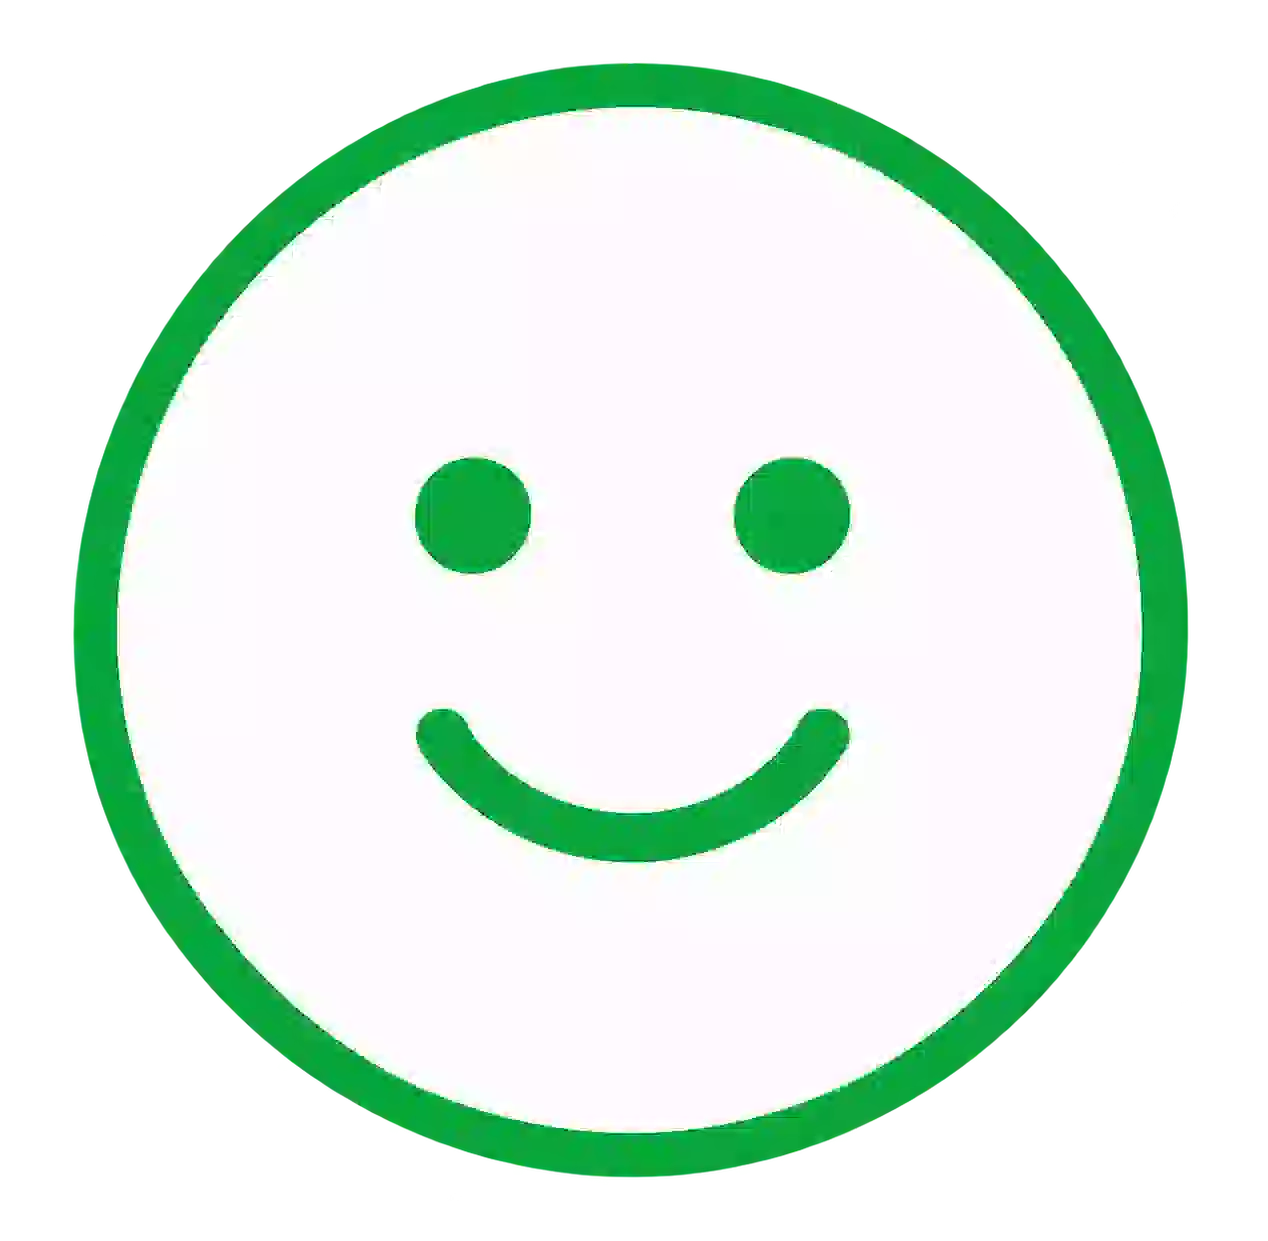
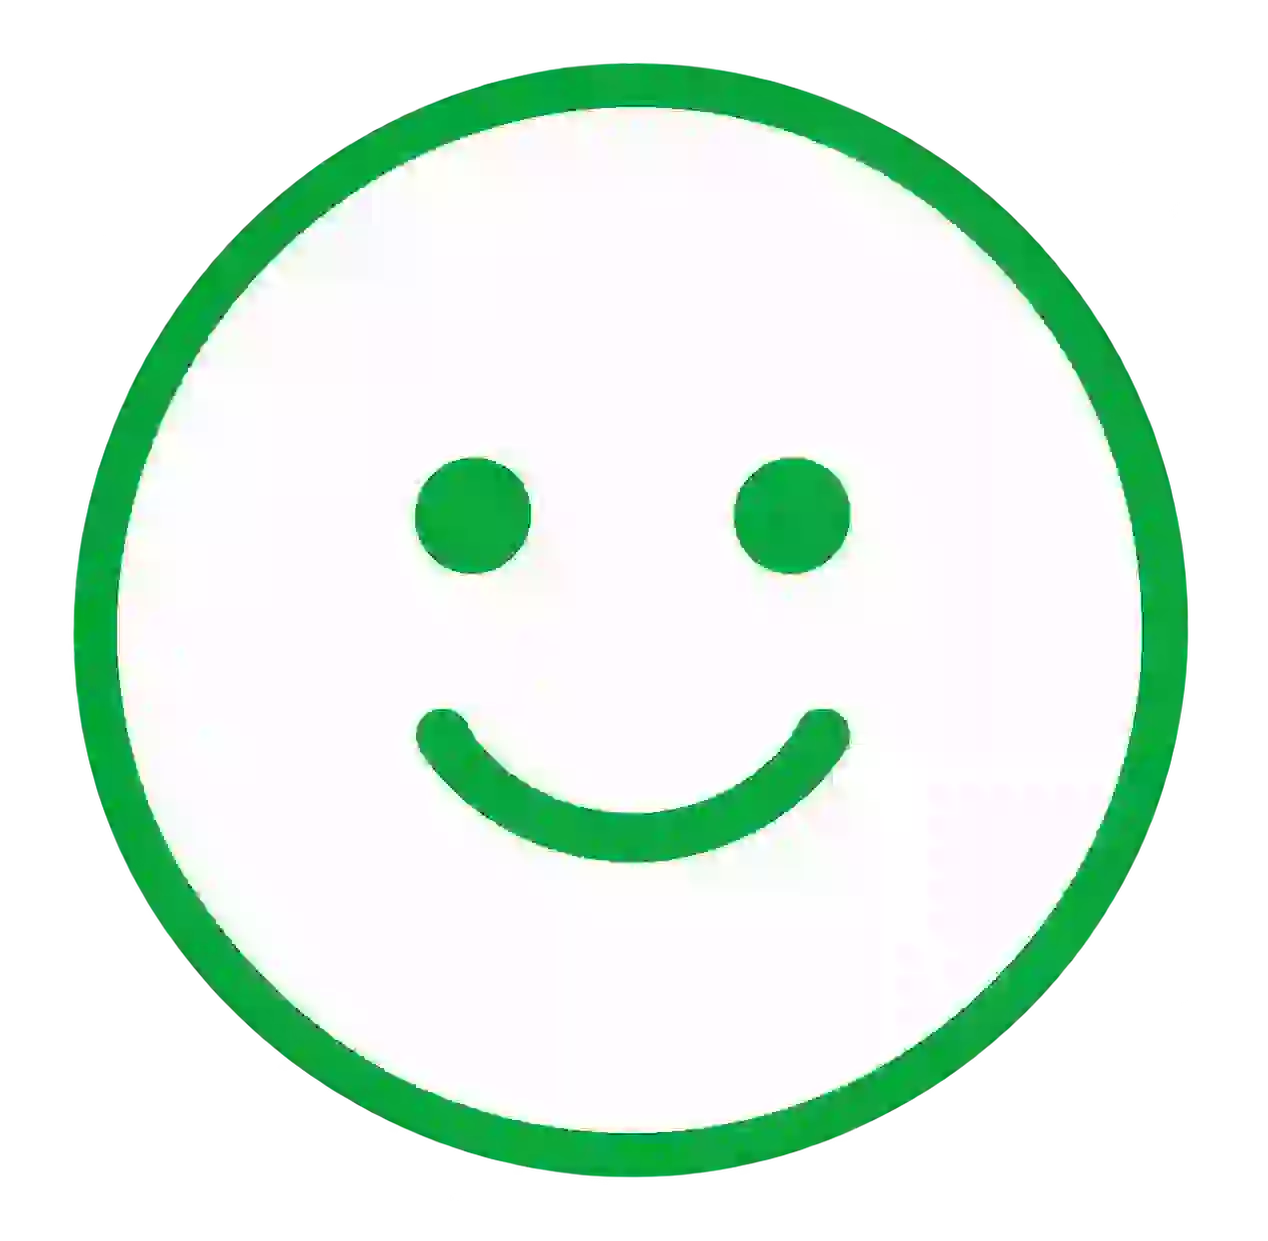
Ver 1.0.4(1)

Changed region(s): [[0.3691, 0.5818, 0.3998, 0.6124], [0.3076, 0.5818, 0.3383, 0.6124], [0.2153, 0.1837, 0.2461, 0.2143]]

diff --git a/check/check.css b/check/check.css
@@ -40,7 +40,7 @@ body {
     display: flex;
     align-items: center;
     justify-content: center;
-    margin-left: 80px;
+    margin-left: 40px;
 
     color: #0CA19B;
 
@@ -58,15 +58,15 @@ body {
     align-items: flex-end;
 
     width: 80px;
-    height: 19px;
+    height: 20px;
 
-    transform: translateY(4.5px);
+    transform: translateY(4px);
 }
 .dot {
     display: none;
 
-    width: 7px;
-    height: 7px;
+    width: 6px;
+    height: 6px;
     border-radius: 1.5px;
 }
 .dot.show {
@@ -74,13 +74,13 @@ body {
 }
 .dot1 {
     background: #E67E22;
-    margin-left: 8px;
+    margin-left: 5px;
 }
 .dot2 {
     background: #E6B800;
-    margin-left: 8px;
+    margin-left: 5px;
 }
 .dot3 {
     background: #0CA19B;
-    margin-left: 8px;
+    margin-left: 5px;
 }
